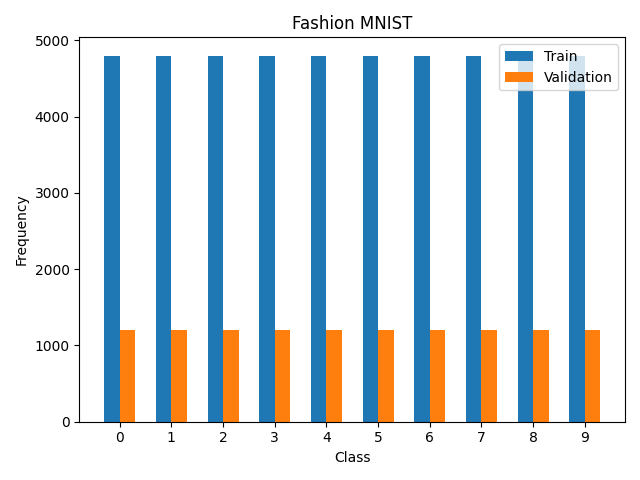
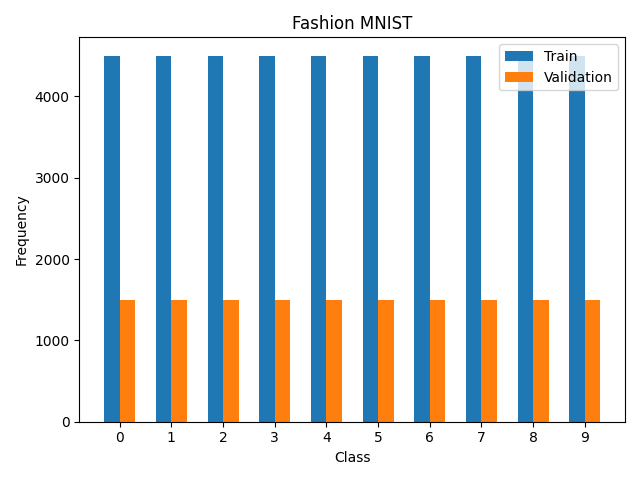
-

diff --git a/main.py b/main.py
@@ -34,7 +34,7 @@ warnings.filterwarnings('ignore')
 # Caminho do main.py
 localPath = pathlib.Path(__file__).parent.resolve()
 
-def export(test,yVal,yPredLR,yPredSVM,dataFrameLR,dataFrameSVM,nLR,nSVM,outparam):
+def export(test,yVal,yPredLR,yPredSVM,yTest,testPredFinal,testPredFinalTotal,dataFrameLR,dataFrameSVM,nLR,nSVM,outparam):
     with open('test'+str(test),'w') as f:
         f.write("%s %i\n" % ('Test ',test))
         f.write("\n")
@@ -54,6 +54,7 @@ def export(test,yVal,yPredLR,yPredSVM,dataFrameLR,dataFrameSVM,nLR,nSVM,outparam
             '&',cm[i,7],'&',cm[i,8],'&',cm[i,9],'\\\\\n'))
         f.write("\n")
         f.write("%s %1.8f" % ("Score Regressao Logistica: ",outparam[0]))
+        f.write("%s %4.2f" % ("Tempo Regressao Logistia: ",times[0]))
 
         f.write("\n")
         f.write("Ordenacao dos scores SVM:\n")
@@ -72,6 +73,7 @@ def export(test,yVal,yPredLR,yPredSVM,dataFrameLR,dataFrameSVM,nLR,nSVM,outparam
             '&',cm[i,7],'&',cm[i,8],'&',cm[i,9],'\\\\\n'))
         f.write("\n")
         f.write("%s %1.8f" % ("Score SVM: ",outparam[1]))
+        f.write("%s %4.2f" % ("Tempo SVM: ",times[1]))
 
         f.write("\n")
         f.write("%s %1.8f %s" % ("Score do modelo final: ",outparam[2],"\n"))
@@ -82,7 +84,36 @@ def export(test,yVal,yPredLR,yPredSVM,dataFrameLR,dataFrameSVM,nLR,nSVM,outparam
         f.write("%s %1.8f %s" % ("Precisao Eout test: ",outparam[7],"\n"))
         f.write("%s %1.8f %s" % ("kappa test: ",outparam[8],"\n"))        
         f.write("%s %1.8f %s" % ("kappa validacao: ",outparam[9],"\n"))  
+        f.write("\n")
 
+        f.write("Matriz de custo modelo final:\n")
+        cm = skl.metrics.confusion_matrix(yTest,testPredFinal)
+        for i in range(10):
+            f.write("%i %s %i %s %i %s %i %s %i %s %i %s %i %s %i %s %i %s %i %s" \
+            % (cm[i,0],'&',cm[i,1],'&',cm[i,2],'&',cm[i,3],'&',cm[i,4],'&',cm[i,5],'&',cm[i,6], \
+            '&',cm[i,7],'&',cm[i,8],'&',cm[i,9],'\\\\\n'))
+        f.write("\n")
+
+        f.write("Re-treinamento:\n")
+        f.write("\n")
+
+        f.write("%s %1.8f %s" % ("Score do modelo final: ",outparam[10],"\n"))
+        f.write("%s %1.8f %s" % ("Acuracia Ein test: ",outparam[11],"\n"))
+        f.write("%s %1.8f %s" % ("Acuracia Eout test: ",outparam[12],"\n"))
+        f.write("%s %1.8f %s" % ("Acuracia Ein validacao: ",outparam[13],"\n"))
+        f.write("%s %1.8f %s" % ("Precisao Ein test: ",outparam[14],"\n"))
+        f.write("%s %1.8f %s" % ("Precisao Eout test: ",outparam[15],"\n"))
+        f.write("%s %1.8f %s" % ("kappa test: ",outparam[16],"\n"))        
+        f.write("%s %1.8f %s" % ("kappa validacao: ",outparam[17],"\n")) 
+        f.write("\n")
+
+        f.write("Matriz de custo modelo re-treinado:\n")
+        cm = skl.metrics.confusion_matrix(yTest,testPredFinalTotal)
+        for i in range(10):
+            f.write("%i %s %i %s %i %s %i %s %i %s %i %s %i %s %i %s %i %s %i %s" \
+            % (cm[i,0],'&',cm[i,1],'&',cm[i,2],'&',cm[i,3],'&',cm[i,4],'&',cm[i,5],'&',cm[i,6], \
+            '&',cm[i,7],'&',cm[i,8],'&',cm[i,9],'\\\\\n'))
+        f.write("\n")
 
     f.close()
 
@@ -116,18 +147,7 @@ def getImages(x_img,y_img):
         ax[i//4, i%4].set_title("Class %d: %s" %(y_img[i],sprite[y_img[i]]))
     plt.savefig(str(localPath) + '/sprite.png')
 
-# Funcao para montar a matriz de confusao
-def getConfusionMatrix (y_val, y_predict, score, vmax, model):
-    cm = skl.metrics.confusion_matrix(y_val, y_predict)
-    plt.figure(figsize=(9,9))
-    sns.heatmap(cm, annot=True, fmt='d', linewidths=.5, square = True, cmap = 'Blues_r',vmin=0,vmax=vmax)
-    plt.ylabel('Actual label')
-    plt.xlabel('Predicted label')
-    all_sample_title = model+'\n\nAccuracy Score: {0}'.format(score)
-    plt.title(all_sample_title, size = 15)
-    plt.savefig(str(localPath) + '/confusionmatrix.png')
-
-def test1(trainSize):
+def test(ntest,trainSize,x_train,y_train,x_test,y_test):
         # Dividindo o conjunto de treinamento para a CV
     print("\nDividindo o conjunto de treinamento para a CV")
     print("---------------------------------------------")
@@ -156,12 +176,13 @@ def test1(trainSize):
     dfLR = pd.DataFrame(gridResultLR.cv_results_)[['params','rank_test_score','mean_test_score']].sort_values(by=['rank_test_score'])
 
     timeLR = time.time() - timeLR
+    times[0] = timeLR
 
-    print("\nTempo de execucao RL: ",int(timeLR),"segundos ou",round(timeLR/60,2),"minutos")
+    print("\nTempo de execucao Regressao Logistica: ",int(timeLR),"segundos ou",round(timeLR/60,2),"minutos")
 
     #SVM
     print("\nAjuste do modelo usando SVM")
-    print("--------------------------------")
+    print("---------------------------")
     modelSVM = SVC()
     kernelSVM = ['sigmoid']
     rowTableSVM = len(kernelSVM)
@@ -175,10 +196,9 @@ def test1(trainSize):
     gridResultSVM = gridSearchSVM.fit(x_Dtrain, y_Dtrain) 
     dfSVM = pd.DataFrame(gridResultSVM.cv_results_)[['params','rank_test_score','mean_test_score']].sort_values(by=['rank_test_score'])
     timeSVM = time.time() - timeSVM
+    times[1] = timeSVM
 
     print("\nTempo de execucao SVM: ",int(timeSVM),"segundos ou",round(timeSVM/60,2),"minutos")
-
-    print("\nTempo total de execucao: ",int(timeLR + timeSVM), "segundos ou ",int(timeLR + timeSVM)/60,"minutos")
 
     yDvalPredLR = gridResultLR.predict(D_val)
     yDvalPredSVM   = gridResultSVM.predict(D_val)
@@ -206,32 +226,42 @@ def test1(trainSize):
     kappaTest = skl.metrics.recall_score(y_test,testPredictFinal,average='macro')
     kappaDval = skl.metrics.recall_score(y_Dval,DvalPredictFinal,average='macro')
 
-    print('Acurracia X_test  = ', EinTest)
-    print('E_out (X_test)   = ', EoutTest)
-    print('Acurracy D_val   = ', EinDval)
-    print('')
+    # Re-treinamento
+    finalModelTotal = finalModel.fit(x_train,y_train)
+    testPredictFinalTotal = finalModelTotal.predict(x_test)
+    DvalPredictFinalTotal = finalModelTotal.predict(D_val)
 
-    print('Precision X_test = ', EinTestPrecision)
-    print('Precision D_val  = ',EinDvalPrecision)
-    print('')
+    scorexTestFinalTotal = finalModelTotal.score(x_test,y_test)
+    testPredictFinalTotal = finalModelTotal.predict(x_test)
+    DvalPredictFinalTotal = finalModelTotal.predict(D_val)
+    EinTestTotal = skl.metrics.accuracy_score(y_test,testPredictFinalTotal)
+    EoutTestTotal = 1 - EinTestTotal
+    EinDvalTotal = skl.metrics.accuracy_score(y_Dval,DvalPredictFinalTotal)
+    EinTestPrecisionTotal = skl.metrics.precision_score(y_test,testPredictFinalTotal,average='macro')
+    EinDvalPrecisionTotal =  skl.metrics.precision_score(y_Dval,DvalPredictFinalTotal,average='macro')
+    kappaTestTotal = skl.metrics.recall_score(y_test,testPredictFinalTotal,average='macro')
+    kappaDvalTotal = skl.metrics.recall_score(y_Dval,DvalPredictFinalTotal,average='macro')
 
-    print('Recall X_test    = ', kappaTest)
-    print('Recall D_val     = ', kappaDval)
+    output[:] = [scoreDvalLR,scoreDvalSVM,scorexTestFinal,EinTest,EoutTest,EinDval,EinTestPrecision,\
+                EinDvalPrecision,kappaTest,kappaDval,scorexTestFinalTotal,EinTestTotal,EoutTestTotal,\
+                EinDvalTotal,EinTestPrecisionTotal,EinDvalPrecisionTotal,kappaTestTotal,kappaDvalTotal]
 
-
-    output[:] = [scoreDvalLR,scoreDvalSVM,scorexTestFinal,EinTest,EoutTest,EinDval,EinTestPrecision,EinDvalPrecision,kappaTest,kappaDval]
-
-    export(1,y_Dval,yDvalPredLR,yDvalPredSVM,dfLR,dfSVM,rowTableLR,rowTableSVM,output)
+    export(ntest,y_Dval,yDvalPredLR,yDvalPredSVM,y_test,testPredictFinal,testPredictFinalTotal,dfLR,dfSVM,rowTableLR,rowTableSVM,output)
     
 
+totalTime = time.time()
 # Carregamento dos dados
 print("\nCarregando o dataset: Fashion mnist")
 print("-----------------------------------")
-(x_train, y_train), (x_test, y_test) = tf.keras.datasets.fashion_mnist.load_data()
+(xTrain, yTrain), (xTest, yTest) = tf.keras.datasets.fashion_mnist.load_data()
 
-print("Numero de amostras para treinamento: ",x_train.shape[0])
-print("Numero de amostras para teste: ",x_test.shape[0])
-print("Tamanha de cada amostra: ",x_train[0,:,:].shape," pixels de escala de cinza")
+xTrainReduced = np.array([image[::2, 1::2] for image in xTrain])
+xTestReduced = np.array([image[::2, 1::2] for image in xTest])
+
+print("Numero de amostras para treinamento: ",xTrain.shape[0])
+print("Numero de amostras para teste: ",xTest.shape[0])
+print("Tamanho de cada amostra: ",xTrain[0,:,:].shape," pixels de escala de cinza")
+print("Tamanho de cada amostra reduzida: ",xTrainReduced[0,:,:].shape," pixels de escala de cinza")
 
 sprite = {
         0: 'T-shirt',
@@ -246,18 +276,59 @@ sprite = {
         9: 'Ankle boot'
     }
 
-getFrequency(y_train,y_test,kind='Test')
-getImages(x_train,y_train)
+getFrequency(yTrain,yTest,kind='Test')
+getImages(xTrain,yTrain)
 
 # Normalizacao
-x_train = (x_train/255.0).astype('float32').reshape((60000,28*28))
-x_test = (x_test/255.0).astype('float32').reshape((10000,28*28))
+xTrain = (xTrain/255.0).astype('float32').reshape((60000,28*28))
+xTest = (xTest/255.0).astype('float32').reshape((10000,28*28))
 
-N, d = x_train.shape
+xTrainReduced = (xTrainReduced/255.0).astype('float32').reshape((60000,14*14))
+xTestReduced = (xTestReduced/255.0).astype('float32').reshape((10000,14*14))
+
+N, d = xTrain.shape
 index = np.arange(N)
-output = np.empty(10)
+output = np.empty(18)
+times = np.zeros(2)
+testTimes = np.zeros(4)
 
+testTimes[0] = time.time()
 print("\n-------------------")
 print("Execucao do teste 1")
 print("-------------------")
-test1(0.80)
+test(1,0.80,xTrain,yTrain,xTest,yTest)
+testTimes[0] = time.time() - testTimes[0]
+
+testTimes[1] = time.time()
+print("\n-------------------")
+print("Execucao do teste 2")
+print("-------------------")
+test(2,0.75,xTrain,yTrain,xTest,yTest)
+testTimes[1] = time.time() - testTimes[1]
+
+testTimes[2] = time.time()
+print("\n-------------------")
+print("Execucao do teste 3")
+print("-------------------")
+test(3,0.80,xTrainReduced,yTrain,xTestReduced,yTest)
+testTimes[2] = time.time() - testTimes[2]
+
+testTimes[3] = time.time()
+print("\n-------------------")
+print("Execucao do teste 4")
+print("-------------------")
+test(4,0.75,xTrainReduced,yTrain,xTestReduced,yTest)
+testTimes[3] = time.time() - testTimes[3]
+
+totalTime = time.time() - totalTime
+
+print("Tempo total: ",round(totalTime/60,2)," minutos ou",round(totalTime/3600,2)," horas.")
+
+with open('totalTime','w') as f:
+    f.write("%s %4.2f" % ("Tempo do teste 1: ",testTimes[0]))
+    f.write("%s %4.2f" % ("Tempo do teste 2: ",testTimes[1]))
+    f.write("%s %4.2f" % ("Tempo do teste 3: ",testTimes[2]))
+    f.write("%s %4.2f" % ("Tempo do teste 4: ",testTimes[3]))
+    f.write("%s %4.2f" % ("Tempo total de todos os testes: ",totalTime))
+
+f.close()
